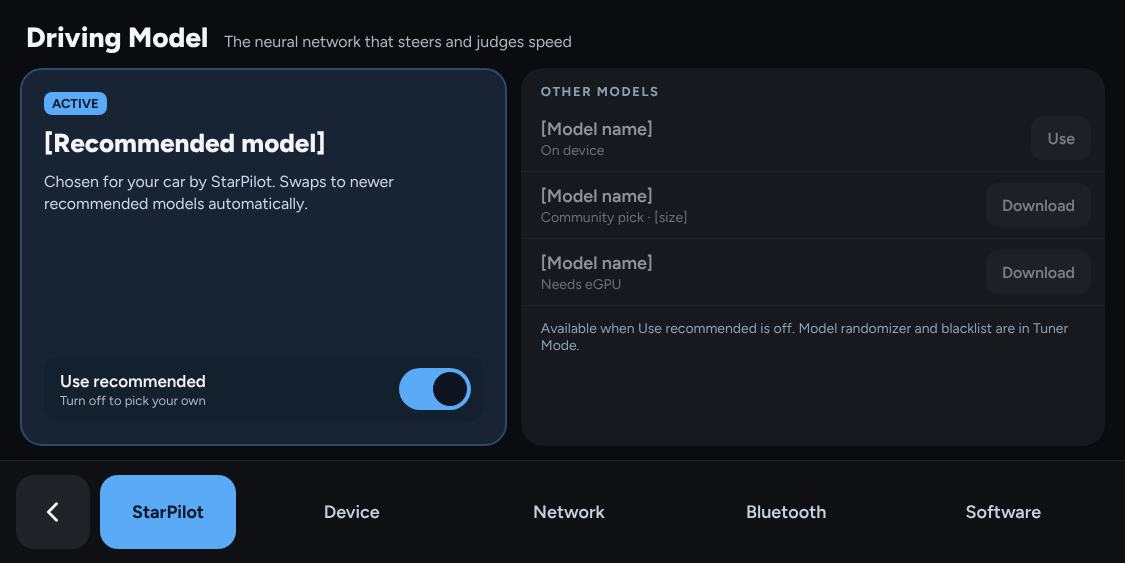
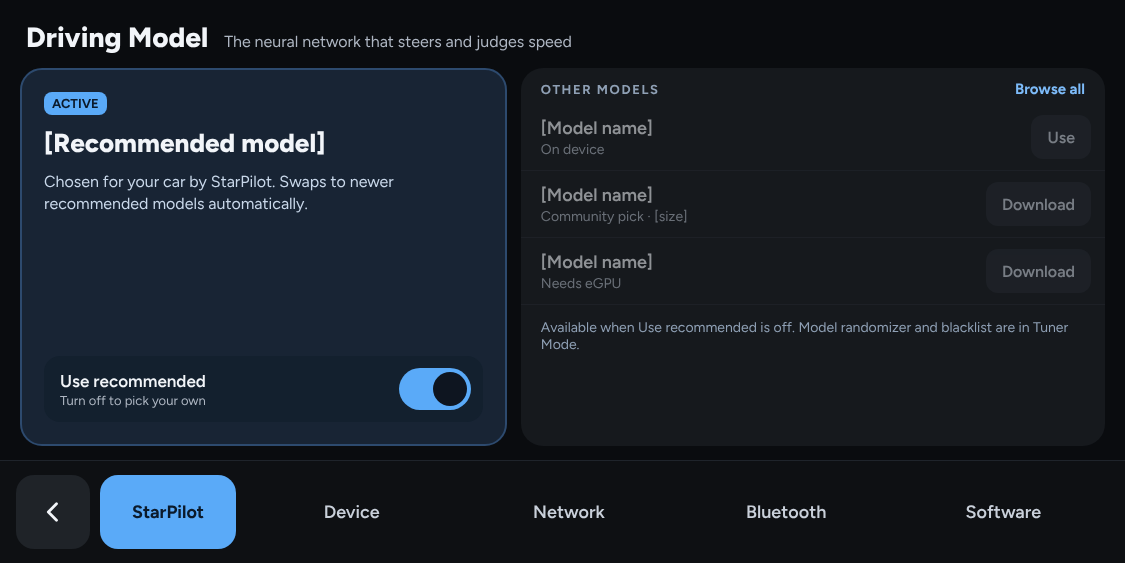
Add value editors, map and model download flows; drop holiday themes
Numeric and volume editor sheets, map region picker and download
progress, and a model catalog with download states. Holiday themes are
removed from the design and HolidayThemes defaults to off.

Claude-Session: https://claude.ai/code/session_01R4pPc2hcx88Dbjjec1p8WC

diff --git a/starpilot/docs/design/essentials/mapdownloading.html b/starpilot/docs/design/essentials/mapdownloading.html
@@ -1,0 +1,59 @@
+<!doctype html>
+<html lang="en">
+<head>
+<meta charset="utf-8">
+<title>Downloading maps</title>
+</head>
+<body>
+
+
+<link rel="preconnect" href="https://fonts.googleapis.com">
+<link href="https://fonts.googleapis.com/css2?family=Figtree:wght@400;500;600;700;800&amp;display=swap" rel="stylesheet">
+<style>
+body{margin:0}
+a{color:#7DBBF9}a:hover{color:#A9D3FB}
+</style>
+
+<div style="width: 1125px; height: 563px; box-sizing: border-box; background: #0A0C0F; color: #F2F5F9; font-family: Figtree, system-ui, sans-serif; display: flex; flex-direction: column; gap: 14px; padding: 16px 18px; overflow: hidden;">
+  <div style="display: flex; align-items: center; gap: 14px;">
+    <a href="mapdata.html" aria-label="Back" style="width: 56px; height: 56px; border-radius: 16px; background: #1F2328; display: flex; align-items: center; justify-content: center; flex-shrink: 0;"><svg width="24" height="24" viewBox="0 0 24 24" fill="none" stroke="#F2F5F9" stroke-width="2.4" stroke-linecap="round" stroke-linejoin="round" aria-hidden="true"><path d="M15 5l-7 7 7 7"></path></svg></a>
+    <div style="flex-grow: 1; display: flex; flex-direction: column; gap: 2px;"><h1 style="margin: 0; font-size: 26px; font-weight: 800;">Downloading West</h1><span style="font-size: 14px; color: #AEB6C2;">You can leave this screen. It keeps going in the background.</span></div>
+    <button type="button" style="font-family: inherit; height: 52px; padding: 0 20px; border-radius: 14px; border: 1px solid #5A3A40; background: transparent; color: #E58C98; font-size: 16px; font-weight: 600;">Cancel download</button>
+  </div>
+  <div style="background: #16191D; border-radius: 22px; padding: 20px 22px; display: flex; flex-direction: column; gap: 14px;">
+    <div style="display: flex; align-items: baseline; gap: 14px;"><span style="font-size: 44px; font-weight: 800; line-height: 1;">42%</span><span style="font-size: 16px; color: #AEB6C2;">[size] of [size] · about [min] left</span></div>
+    <div role="progressbar" aria-valuenow="42" aria-valuemin="0" aria-valuemax="100" aria-label="Overall progress" style="height: 14px; border-radius: 7px; background: #2A2F36;"><div style="width: 42%; height: 14px; border-radius: 7px; background: #5AAAF8;"></div></div>
+    <div style="display: grid; grid-template-columns: repeat(4, minmax(0, 1fr)); gap: 8px;">
+      <span style="display: flex; align-items: center; gap: 8px; font-size: 15px; color: #6FD8A0; font-weight: 600;"><svg width="16" height="16" viewBox="0 0 24 24" fill="none" stroke="#6FD8A0" stroke-width="2.8" stroke-linecap="round" stroke-linejoin="round" aria-hidden="true"><path d="M5 12l5 5 9-10"></path></svg>1 Prepare</span>
+      <span style="display: flex; align-items: center; gap: 8px; font-size: 15px; color: #F2F5F9; font-weight: 700;"><span style="width: 10px; height: 10px; border-radius: 5px; background: #5AAAF8; display: block;"></span>2 Download</span>
+      <span style="display: flex; align-items: center; gap: 8px; font-size: 15px; color: #8FA0B5; font-weight: 600;"><span style="width: 10px; height: 10px; border-radius: 5px; border: 2px solid #4A525E; box-sizing: border-box; display: block;"></span>3 Install</span>
+      <span style="display: flex; align-items: center; gap: 8px; font-size: 15px; color: #8FA0B5; font-weight: 600;"><span style="width: 10px; height: 10px; border-radius: 5px; border: 2px solid #4A525E; box-sizing: border-box; display: block;"></span>4 Ready</span>
+    </div>
+  </div>
+  <div style="flex-grow: 1; background: #16191D; border-radius: 22px; padding: 16px 20px; display: flex; flex-direction: column; gap: 12px; min-height: 0;">
+    <span style="font-size: 13px; font-weight: 700; letter-spacing: 1.6px; color: #8FA0B5;">STATES · 5 OF 13 DONE</span>
+    <div style="display: grid; grid-template-columns: repeat(7, minmax(0, 1fr)); gap: 8px;">
+      <span style="height: 44px; border-radius: 12px; background: #13301F; color: #D2F5E1; font-size: 15px; font-weight: 700; display: flex; align-items: center; justify-content: center; gap: 6px;"><svg width="14" height="14" viewBox="0 0 24 24" fill="none" stroke="#6FD8A0" stroke-width="3" stroke-linecap="round" stroke-linejoin="round" aria-hidden="true"><path d="M5 12l5 5 9-10"></path></svg>AK</span>
+      <span style="height: 44px; border-radius: 12px; background: #13301F; color: #D2F5E1; font-size: 15px; font-weight: 700; display: flex; align-items: center; justify-content: center; gap: 6px;"><svg width="14" height="14" viewBox="0 0 24 24" fill="none" stroke="#6FD8A0" stroke-width="3" stroke-linecap="round" stroke-linejoin="round" aria-hidden="true"><path d="M5 12l5 5 9-10"></path></svg>AZ</span>
+      <span style="height: 44px; border-radius: 12px; background: #13301F; color: #D2F5E1; font-size: 15px; font-weight: 700; display: flex; align-items: center; justify-content: center; gap: 6px;"><svg width="14" height="14" viewBox="0 0 24 24" fill="none" stroke="#6FD8A0" stroke-width="3" stroke-linecap="round" stroke-linejoin="round" aria-hidden="true"><path d="M5 12l5 5 9-10"></path></svg>CA</span>
+      <span style="height: 44px; border-radius: 12px; background: #13301F; color: #D2F5E1; font-size: 15px; font-weight: 700; display: flex; align-items: center; justify-content: center; gap: 6px;"><svg width="14" height="14" viewBox="0 0 24 24" fill="none" stroke="#6FD8A0" stroke-width="3" stroke-linecap="round" stroke-linejoin="round" aria-hidden="true"><path d="M5 12l5 5 9-10"></path></svg>CO</span>
+      <span style="height: 44px; border-radius: 12px; background: #13301F; color: #D2F5E1; font-size: 15px; font-weight: 700; display: flex; align-items: center; justify-content: center; gap: 6px;"><svg width="14" height="14" viewBox="0 0 24 24" fill="none" stroke="#6FD8A0" stroke-width="3" stroke-linecap="round" stroke-linejoin="round" aria-hidden="true"><path d="M5 12l5 5 9-10"></path></svg>HI</span>
+      <span style="height: 44px; border-radius: 12px; background: #182434; box-shadow: inset 0 0 0 2px #5AAAF8; color: #F2F5F9; font-size: 15px; font-weight: 700; display: flex; align-items: center; justify-content: center; gap: 6px;">ID <span style="font-size: 12px; color: #7DBBF9;">60%</span></span>
+      <span style="height: 44px; border-radius: 12px; background: #1E2227; color: #8FA0B5; font-size: 15px; font-weight: 600; display: flex; align-items: center; justify-content: center;">MT</span>
+      <span style="height: 44px; border-radius: 12px; background: #1E2227; color: #8FA0B5; font-size: 15px; font-weight: 600; display: flex; align-items: center; justify-content: center;">NV</span>
+      <span style="height: 44px; border-radius: 12px; background: #1E2227; color: #8FA0B5; font-size: 15px; font-weight: 600; display: flex; align-items: center; justify-content: center;">NM</span>
+      <span style="height: 44px; border-radius: 12px; background: #1E2227; color: #8FA0B5; font-size: 15px; font-weight: 600; display: flex; align-items: center; justify-content: center;">OR</span>
+      <span style="height: 44px; border-radius: 12px; background: #1E2227; color: #8FA0B5; font-size: 15px; font-weight: 600; display: flex; align-items: center; justify-content: center;">UT</span>
+      <span style="height: 44px; border-radius: 12px; background: #1E2227; color: #8FA0B5; font-size: 15px; font-weight: 600; display: flex; align-items: center; justify-content: center;">WA</span>
+      <span style="height: 44px; border-radius: 12px; background: #1E2227; color: #8FA0B5; font-size: 15px; font-weight: 600; display: flex; align-items: center; justify-content: center;">WY</span>
+    </div>
+    <div style="flex-grow: 1;"></div>
+    <div style="display: flex; align-items: center; gap: 10px; font-size: 14px; color: #AEB6C2;">
+      <svg width="18" height="18" viewBox="0 0 24 24" fill="none" stroke="#7DBBF9" stroke-width="2" stroke-linecap="round" aria-hidden="true"><circle cx="12" cy="12" r="9"></circle><path d="M12 11v5M12 8h.01"></path></svg>
+      Pauses if you start driving or lose Wi-Fi, and picks up where it stopped. Keep the device powered.
+    </div>
+  </div>
+</div>
+
+</body>
+</html>

diff --git a/starpilot/docs/design/essentials/mapregions.html b/starpilot/docs/design/essentials/mapregions.html
@@ -1,0 +1,52 @@
+<!doctype html>
+<html lang="en">
+<head>
+<meta charset="utf-8">
+<title>Choose map regions</title>
+</head>
+<body>
+
+
+<link rel="preconnect" href="https://fonts.googleapis.com">
+<link href="https://fonts.googleapis.com/css2?family=Figtree:wght@400;500;600;700;800&amp;display=swap" rel="stylesheet">
+<style>
+body{margin:0}
+a{color:#7DBBF9}a:hover{color:#A9D3FB}
+</style>
+
+<div style="width: 1125px; height: 563px; box-sizing: border-box; background: #0A0C0F; color: #F2F5F9; font-family: Figtree, system-ui, sans-serif; display: flex; flex-direction: column; gap: 14px; padding: 16px 18px; overflow: hidden;">
+  <div style="display: flex; align-items: center; gap: 14px;">
+    <a href="mapdata.html" aria-label="Back" style="width: 56px; height: 56px; border-radius: 16px; background: #1F2328; display: flex; align-items: center; justify-content: center; flex-shrink: 0;"><svg width="24" height="24" viewBox="0 0 24 24" fill="none" stroke="#F2F5F9" stroke-width="2.4" stroke-linecap="round" stroke-linejoin="round" aria-hidden="true"><path d="M15 5l-7 7 7 7"></path></svg></a>
+    <div style="display: flex; flex-direction: column; gap: 2px;"><h1 style="margin: 0; font-size: 26px; font-weight: 800;">Add map regions</h1><span style="font-size: 14px; color: #AEB6C2;">Pick a region, or switch to states for less storage</span></div>
+  </div>
+  <div style="flex-grow: 1; display: flex; gap: 14px; min-height: 0;">
+    <div role="tablist" aria-label="Region type" aria-orientation="vertical" style="width: 190px; flex-shrink: 0; display: flex; flex-direction: column; gap: 6px;">
+      <button type="button" role="tab" aria-selected="true" style="font-family: inherit; text-align: left; height: 54px; border: 0; border-radius: 14px; background: #1F2E45; color: #F2F5F9; font-size: 17px; font-weight: 700; padding: 0 16px;">U.S. regions</button>
+      <button type="button" role="tab" aria-selected="false" style="font-family: inherit; text-align: left; height: 54px; border: 0; border-radius: 14px; background: transparent; color: #C9D0DA; font-size: 17px; font-weight: 600; padding: 0 16px;">U.S. states</button>
+      <button type="button" role="tab" aria-selected="false" style="font-family: inherit; text-align: left; height: 54px; border: 0; border-radius: 14px; background: transparent; color: #C9D0DA; font-size: 17px; font-weight: 600; padding: 0 16px;">Other countries</button>
+    </div>
+    <div style="flex-grow: 1; min-width: 0; display: grid; grid-template-columns: repeat(2, minmax(0, 1fr)); grid-auto-rows: minmax(0, 1fr); gap: 10px;">
+      <button type="button" aria-pressed="true" style="font-family: inherit; text-align: left; border: 2px solid #5AAAF8; border-radius: 16px; background: #182434; color: #F2F5F9; padding: 12px 16px; display: flex; flex-direction: column; justify-content: center; gap: 4px;"><span style="display: flex; align-items: center; gap: 8px; font-size: 17px; font-weight: 700;">West <span style="font-size: 11px; font-weight: 700; color: #0B1A2B; background: #5AAAF8; border-radius: 6px; padding: 2px 6px;">YOUR REGION</span></span><span style="font-size: 13px; color: #C9D8EA;">13 states · [size]</span></button>
+      <button type="button" aria-pressed="false" style="font-family: inherit; text-align: left; border: 2px solid transparent; border-radius: 16px; background: #1A1D22; color: #F2F5F9; padding: 12px 16px; display: flex; flex-direction: column; justify-content: center; gap: 4px;"><span style="font-size: 17px; font-weight: 700;">Midwest</span><span style="font-size: 13px; color: #AEB6C2;">12 states · [size]</span></button>
+      <button type="button" aria-pressed="false" style="font-family: inherit; text-align: left; border: 2px solid transparent; border-radius: 16px; background: #1A1D22; color: #F2F5F9; padding: 12px 16px; display: flex; flex-direction: column; justify-content: center; gap: 4px;"><span style="font-size: 17px; font-weight: 700;">South</span><span style="font-size: 13px; color: #AEB6C2;">17 states · [size]</span></button>
+      <button type="button" aria-pressed="false" style="font-family: inherit; text-align: left; border: 2px solid transparent; border-radius: 16px; background: #1A1D22; color: #F2F5F9; padding: 12px 16px; display: flex; flex-direction: column; justify-content: center; gap: 4px;"><span style="font-size: 17px; font-weight: 700;">Northeast</span><span style="font-size: 13px; color: #AEB6C2;">9 states · [size]</span></button>
+      <button type="button" aria-pressed="false" style="font-family: inherit; text-align: left; border: 2px solid transparent; border-radius: 16px; background: #1A1D22; color: #F2F5F9; padding: 12px 16px; display: flex; flex-direction: column; justify-content: center; gap: 4px;"><span style="font-size: 17px; font-weight: 700;">Territories</span><span style="font-size: 13px; color: #AEB6C2;">5 territories · [size]</span></button>
+      <button type="button" aria-pressed="false" style="font-family: inherit; text-align: left; border: 2px solid transparent; border-radius: 16px; background: #1A1D22; color: #F2F5F9; padding: 12px 16px; display: flex; flex-direction: column; justify-content: center; gap: 4px;"><span style="font-size: 17px; font-weight: 700;">Whole U.S.</span><span style="font-size: 13px; color: #AEB6C2;">Every state and territory · [size]</span></button>
+    </div>
+    <div style="width: 290px; flex-shrink: 0; background: #16191D; border-radius: 20px; padding: 18px; box-sizing: border-box; display: flex; flex-direction: column; gap: 12px;">
+      <span style="font-size: 13px; font-weight: 700; letter-spacing: 1.6px; color: #8FA0B5;">SELECTED</span>
+      <span style="font-size: 22px; font-weight: 800;">West · 13 states</span>
+      <span style="font-size: 15px; color: #AEB6C2;">[size] download · [free] left after</span>
+      <div style="display: flex; flex-direction: column; gap: 8px; padding-top: 4px; font-size: 15px;">
+        <span style="display: flex; align-items: center; gap: 10px;"><svg width="18" height="18" viewBox="0 0 24 24" fill="none" stroke="#6FD8A0" stroke-width="2.6" stroke-linecap="round" stroke-linejoin="round" aria-hidden="true"><path d="M5 12l5 5 9-10"></path></svg>Parked</span>
+        <span style="display: flex; align-items: center; gap: 10px;"><svg width="18" height="18" viewBox="0 0 24 24" fill="none" stroke="#6FD8A0" stroke-width="2.6" stroke-linecap="round" stroke-linejoin="round" aria-hidden="true"><path d="M5 12l5 5 9-10"></path></svg>On Wi-Fi</span>
+        <span style="display: flex; align-items: center; gap: 10px;"><svg width="18" height="18" viewBox="0 0 24 24" fill="none" stroke="#6FD8A0" stroke-width="2.6" stroke-linecap="round" stroke-linejoin="round" aria-hidden="true"><path d="M5 12l5 5 9-10"></path></svg>Enough storage</span>
+      </div>
+      <div style="flex-grow: 1;"></div>
+      <a href="mapdownloading.html" style="text-decoration: none; height: 60px; border-radius: 16px; background: #5AAAF8; color: #0B1A2B; font-size: 18px; font-weight: 800; display: flex; align-items: center; justify-content: center;">Download</a>
+    </div>
+  </div>
+</div>
+
+</body>
+</html>

diff --git a/starpilot/docs/design/essentials/modelcatalog.html b/starpilot/docs/design/essentials/modelcatalog.html
@@ -1,0 +1,70 @@
+<!doctype html>
+<html lang="en">
+<head>
+<meta charset="utf-8">
+<title>Browse driving models</title>
+</head>
+<body>
+
+
+<link rel="preconnect" href="https://fonts.googleapis.com">
+<link href="https://fonts.googleapis.com/css2?family=Figtree:wght@400;500;600;700;800&amp;display=swap" rel="stylesheet">
+<style>
+body{margin:0}
+a{color:#7DBBF9}a:hover{color:#A9D3FB}
+</style>
+
+<div style="width: 1125px; height: 563px; box-sizing: border-box; background: #0A0C0F; color: #F2F5F9; font-family: Figtree, system-ui, sans-serif; display: flex; flex-direction: column; gap: 12px; padding: 16px 18px; overflow: hidden;">
+  <div style="display: flex; align-items: center; gap: 14px;">
+    <a href="model.html" aria-label="Back" style="width: 56px; height: 56px; border-radius: 16px; background: #1F2328; display: flex; align-items: center; justify-content: center; flex-shrink: 0;"><svg width="24" height="24" viewBox="0 0 24 24" fill="none" stroke="#F2F5F9" stroke-width="2.4" stroke-linecap="round" stroke-linejoin="round" aria-hidden="true"><path d="M15 5l-7 7 7 7"></path></svg></a>
+    <h1 style="margin: 0; flex-grow: 1; font-size: 26px; font-weight: 800;">Driving models</h1>
+    <div role="tablist" aria-label="Model list" style="display: flex; background: #1A1D22; border-radius: 14px; padding: 4px;">
+      <button type="button" role="tab" aria-selected="true" style="font-family: inherit; border: 0; background: #5AAAF8; color: #0B1A2B; height: 44px; padding: 0 16px; border-radius: 11px; font-size: 16px; font-weight: 700;">For your car</button>
+      <button type="button" role="tab" aria-selected="false" style="font-family: inherit; border: 0; background: transparent; color: #C9D0DA; height: 44px; padding: 0 16px; border-radius: 11px; font-size: 16px; font-weight: 600;">Community picks</button>
+      <button type="button" role="tab" aria-selected="false" style="font-family: inherit; border: 0; background: transparent; color: #C9D0DA; height: 44px; padding: 0 16px; border-radius: 11px; font-size: 16px; font-weight: 600;">On device</button>
+    </div>
+  </div>
+  <div style="flex-grow: 1; display: flex; gap: 14px; min-height: 0;">
+    <div style="flex-grow: 1; min-width: 0; background: #16191D; border-radius: 22px; display: flex; flex-direction: column; overflow: hidden;">
+      <div style="display: flex; align-items: center; gap: 14px; padding: 0 16px 0 20px; height: 72px; border-bottom: 1px solid #23272E; background: #182434;">
+        <div style="flex-grow: 1; display: flex; flex-direction: column; gap: 3px;"><span style="font-size: 18px; font-weight: 700;">[Recommended model]</span><span style="font-size: 14px; color: #C9D8EA;">Recommended · On device</span></div>
+        <span style="font-size: 13px; font-weight: 700; color: #0B1A2B; background: #5AAAF8; border-radius: 8px; padding: 5px 10px;">ACTIVE</span>
+      </div>
+      <div style="display: flex; flex-direction: column; justify-content: center; gap: 8px; padding: 0 16px 0 20px; height: 82px; border-bottom: 1px solid #23272E;">
+        <div style="display: flex; align-items: center; gap: 14px;">
+          <div style="flex-grow: 1; display: flex; flex-direction: column; gap: 3px;"><span style="font-size: 18px; font-weight: 700;">[Model name]</span><span style="font-size: 14px; color: #7DBBF9;">Downloading · 45% · about [min] left</span></div>
+          <button type="button" style="font-family: inherit; height: 42px; padding: 0 16px; border: 0; border-radius: 12px; background: #23272E; color: #F2F5F9; font-size: 15px; font-weight: 600;">Cancel</button>
+        </div>
+        <div role="progressbar" aria-valuenow="45" aria-valuemin="0" aria-valuemax="100" aria-label="Download progress" style="height: 6px; border-radius: 3px; background: #2A2F36;"><div style="width: 45%; height: 6px; border-radius: 3px; background: #5AAAF8;"></div></div>
+      </div>
+      <div style="display: flex; align-items: center; gap: 14px; padding: 0 16px 0 20px; height: 68px; border-bottom: 1px solid #23272E;">
+        <div style="flex-grow: 1; display: flex; flex-direction: column; gap: 3px;"><span style="font-size: 18px; font-weight: 600;">[Model name]</span><span style="font-size: 14px; color: #6FD8A0;">On device</span></div>
+        <button type="button" style="font-family: inherit; height: 42px; padding: 0 18px; border: 0; border-radius: 12px; background: #5AAAF8; color: #0B1A2B; font-size: 15px; font-weight: 700;">Use</button>
+      </div>
+      <div style="display: flex; align-items: center; gap: 14px; padding: 0 16px 0 20px; height: 68px; border-bottom: 1px solid #23272E;">
+        <div style="flex-grow: 1; display: flex; flex-direction: column; gap: 3px;"><span style="font-size: 18px; font-weight: 600;">[Model name]</span><span style="font-size: 14px; color: #AEB6C2;">[size] · supports your car</span></div>
+        <button type="button" style="font-family: inherit; height: 42px; padding: 0 16px; border: 0; border-radius: 12px; background: #23272E; color: #F2F5F9; font-size: 15px; font-weight: 600;">Download</button>
+      </div>
+      <div style="display: flex; align-items: center; gap: 14px; padding: 0 16px 0 20px; height: 68px; opacity: 0.55;">
+        <div style="flex-grow: 1; display: flex; flex-direction: column; gap: 3px;"><span style="font-size: 18px; font-weight: 600;">[Model name]</span><span style="font-size: 14px; color: #AEB6C2;">Needs an eGPU</span></div>
+        <button type="button" disabled="disabled" style="font-family: inherit; height: 42px; padding: 0 16px; border: 0; border-radius: 12px; background: #23272E; color: #8FA0B5; font-size: 15px; font-weight: 600;">Not available</button>
+      </div>
+    </div>
+    <div style="width: 280px; flex-shrink: 0; display: flex; flex-direction: column; gap: 14px;">
+      <div style="background: #16191D; border-radius: 20px; padding: 16px 18px; display: flex; flex-direction: column; gap: 10px;">
+        <span style="font-size: 13px; font-weight: 700; letter-spacing: 1.6px; color: #8FA0B5;">STORAGE</span>
+        <span style="font-size: 18px; font-weight: 700;">[free] free</span>
+        <div style="height: 10px; border-radius: 5px; background: #2A2F36;"><div style="width: 62%; height: 10px; border-radius: 5px; background: #3B5677;"></div></div>
+        <button type="button" style="font-family: inherit; height: 46px; border: 0; border-radius: 12px; background: #23272E; color: #F2F5F9; font-size: 15px; font-weight: 600;">Remove unused models</button>
+      </div>
+      <div style="flex-grow: 1; background: #16191D; border-radius: 20px; padding: 16px 18px; display: flex; flex-direction: column; gap: 10px; font-size: 14px; color: #C9D0DA; line-height: 1.45;">
+        <span style="font-size: 13px; font-weight: 700; letter-spacing: 1.6px; color: #8FA0B5;">GOOD TO KNOW</span>
+        <span>One download at a time. Downloads pause while driving and resume when parked.</span>
+        <span>A new model takes effect the next time you start the car.</span>
+      </div>
+    </div>
+  </div>
+</div>
+
+</body>
+</html>

diff --git a/starpilot/docs/design/essentials/valueeditor.html b/starpilot/docs/design/essentials/valueeditor.html
@@ -1,0 +1,54 @@
+<!doctype html>
+<html lang="en">
+<head>
+<meta charset="utf-8">
+<title>Numeric value editor</title>
+</head>
+<body>
+
+
+<link rel="preconnect" href="https://fonts.googleapis.com">
+<link href="https://fonts.googleapis.com/css2?family=Figtree:wght@400;500;600;700;800&amp;display=swap" rel="stylesheet">
+<style>
+body{margin:0}
+a{color:#7DBBF9}a:hover{color:#A9D3FB}
+</style>
+
+<div style="width: 1125px; height: 563px; box-sizing: border-box; background: #050608; color: #F2F5F9; font-family: Figtree, system-ui, sans-serif; display: flex; flex-direction: column; justify-content: flex-end; overflow: hidden; position: relative;">
+  <div aria-hidden="true" style="position: absolute; left: 20px; right: 20px; top: 18px; height: 70px; border-radius: 22px; background: #0C0E11;"></div>
+  <section aria-label="Speed Limit Offset" style="position: relative; height: 455px; box-sizing: border-box; background: #16191D; border-radius: 26px 26px 0 0; border-top: 1px solid #262B33; padding: 14px 26px 22px; display: flex; flex-direction: column; gap: 14px;">
+    <div style="align-self: center; width: 64px; height: 6px; border-radius: 3px; background: #3A414C;"></div>
+    <div style="display: flex; align-items: center; gap: 14px;">
+      <div style="flex-grow: 1; display: flex; flex-direction: column; gap: 4px;"><h2 style="margin: 0; font-size: 28px; font-weight: 800;">Speed Limit Offset</h2><span style="font-size: 15px; color: #AEB6C2;">Added to every matched speed limit</span></div>
+      <a href="driving.html" style="text-decoration: none; height: 60px; padding: 0 30px; border-radius: 16px; background: #5AAAF8; color: #0B1A2B; font-size: 18px; font-weight: 800; display: flex; align-items: center;">Done</a>
+    </div>
+    <div style="display: flex; align-items: center; justify-content: center; gap: 40px; padding-top: 4px;">
+      <button type="button" aria-label="Decrease" style="font-family: inherit; width: 88px; height: 88px; border: 0; border-radius: 24px; background: #23272E; color: #F2F5F9; font-size: 44px; font-weight: 500;">−</button>
+      <div style="width: 260px; display: flex; flex-direction: column; align-items: center; line-height: 1;">
+        <span style="font-size: 76px; font-weight: 800;">+3</span>
+        <span style="font-size: 18px; color: #AEB6C2; margin-top: 6px;">mph</span>
+      </div>
+      <button type="button" aria-label="Increase" style="font-family: inherit; width: 88px; height: 88px; border: 0; border-radius: 24px; background: #23272E; color: #F2F5F9; font-size: 44px; font-weight: 500;">+</button>
+    </div>
+    <div style="position: relative; height: 66px; margin: 0 12px;">
+      <span style="position: absolute; left: 52%; top: 0; transform: translateX(-50%); font-size: 12px; font-weight: 700; letter-spacing: 1.2px; color: #8FA0B5;">DEFAULT</span>
+      <div aria-hidden="true" style="position: absolute; left: 0; right: 0; top: 30px; height: 10px; border-radius: 5px; background: #2A2F36;"></div>
+      <div aria-hidden="true" style="position: absolute; left: 0; width: 52%; top: 30px; height: 10px; border-radius: 5px; background: #5AAAF8;"></div>
+      <div aria-hidden="true" style="position: absolute; left: 52%; top: 21px; width: 28px; height: 28px; margin-left: -14px; border-radius: 14px; background: #F2F5F9; border: 4px solid #5AAAF8; box-sizing: border-box;"></div>
+      <span style="position: absolute; left: 0; top: 48px; font-size: 13px; color: #8FA0B5;">−10</span>
+      <span style="position: absolute; right: 0; top: 48px; font-size: 13px; color: #8FA0B5;">+15</span>
+    </div>
+    <div style="display: flex; align-items: center; gap: 10px;">
+      <span style="font-size: 14px; color: #AEB6C2; margin-right: 6px;">Quick picks</span>
+      <button type="button" style="font-family: inherit; height: 44px; padding: 0 18px; border: 0; border-radius: 12px; background: #23272E; color: #F2F5F9; font-size: 16px; font-weight: 600;">+0</button>
+      <button type="button" aria-pressed="true" style="font-family: inherit; height: 44px; padding: 0 18px; border: 0; border-radius: 12px; background: #5AAAF8; color: #0B1A2B; font-size: 16px; font-weight: 700;">+3</button>
+      <button type="button" style="font-family: inherit; height: 44px; padding: 0 18px; border: 0; border-radius: 12px; background: #23272E; color: #F2F5F9; font-size: 16px; font-weight: 600;">+5</button>
+      <button type="button" style="font-family: inherit; height: 44px; padding: 0 18px; border: 0; border-radius: 12px; background: #23272E; color: #F2F5F9; font-size: 16px; font-weight: 600;">+10</button>
+      <span style="flex-grow: 1; text-align: right; font-size: 14px; color: #8FA0B5;">Steps of 1. Hold − or + to move faster.</span>
+      <button type="button" style="font-family: inherit; height: 44px; padding: 0 16px; border: 0; border-radius: 12px; background: transparent; color: #7DBBF9; font-size: 16px; font-weight: 700;">Reset to default</button>
+    </div>
+  </section>
+</div>
+
+</body>
+</html>

diff --git a/starpilot/docs/design/essentials/volumeeditor.html b/starpilot/docs/design/essentials/volumeeditor.html
@@ -1,0 +1,48 @@
+<!doctype html>
+<html lang="en">
+<head>
+<meta charset="utf-8">
+<title>Volume editor</title>
+</head>
+<body>
+
+
+<link rel="preconnect" href="https://fonts.googleapis.com">
+<link href="https://fonts.googleapis.com/css2?family=Figtree:wght@400;500;600;700;800&amp;display=swap" rel="stylesheet">
+<style>
+body{margin:0}
+a{color:#7DBBF9}a:hover{color:#A9D3FB}
+</style>
+
+<div style="width: 1125px; height: 563px; box-sizing: border-box; background: #050608; color: #F2F5F9; font-family: Figtree, system-ui, sans-serif; display: flex; flex-direction: column; justify-content: flex-end; overflow: hidden; position: relative;">
+  <div aria-hidden="true" style="position: absolute; left: 20px; right: 20px; top: 18px; height: 70px; border-radius: 22px; background: #0C0E11;"></div>
+  <section aria-label="Warning volume" style="position: relative; height: 455px; box-sizing: border-box; background: #16191D; border-radius: 26px 26px 0 0; border-top: 1px solid #262B33; padding: 14px 26px 22px; display: flex; flex-direction: column; gap: 16px;">
+    <div style="align-self: center; width: 64px; height: 6px; border-radius: 3px; background: #3A414C;"></div>
+    <div style="display: flex; align-items: center; gap: 14px;">
+      <div style="flex-grow: 1; display: flex; flex-direction: column; gap: 4px;"><h2 style="margin: 0; font-size: 28px; font-weight: 800;">Driver Attention Volume</h2><span style="font-size: 15px; color: #AEB6C2;">The chime when StarPilot needs you to look at the road</span></div>
+      <a href="alerts.html" style="text-decoration: none; height: 60px; padding: 0 30px; border-radius: 16px; background: #5AAAF8; color: #0B1A2B; font-size: 18px; font-weight: 800; display: flex; align-items: center;">Done</a>
+    </div>
+    <div style="display: flex; align-items: center; gap: 28px; padding: 6px 0;">
+      <div style="display: flex; align-items: baseline; gap: 6px; width: 200px;"><span style="font-size: 72px; font-weight: 800; line-height: 1;">80</span><span style="font-size: 26px; font-weight: 700; color: #AEB6C2;">%</span></div>
+      <button type="button" style="font-family: inherit; height: 64px; padding: 0 22px; border: 0; border-radius: 18px; background: #23272E; color: #F2F5F9; font-size: 17px; font-weight: 700; display: flex; align-items: center; gap: 12px;"><svg width="22" height="22" viewBox="0 0 24 24" fill="#7DBBF9" aria-hidden="true"><path d="M8 5l11 7-11 7z"></path></svg>Play sample</button>
+      <span style="flex-grow: 1; font-size: 15px; color: #AEB6C2;">Plays through your car speakers if they're connected.</span>
+    </div>
+    <div style="position: relative; height: 92px; margin: 0 14px;">
+      <div aria-hidden="true" style="position: absolute; left: 0; width: 25%; top: 30px; height: 14px; border-radius: 7px 0 0 7px; background: repeating-linear-gradient(135deg, #3A2026 0 6px, #2A1A1E 6px 12px);"></div>
+      <div aria-hidden="true" style="position: absolute; left: 25%; right: 0; top: 30px; height: 14px; border-radius: 0 7px 7px 0; background: #2A2F36;"></div>
+      <div aria-hidden="true" style="position: absolute; left: 25%; width: 55%; top: 30px; height: 14px; background: #5AAAF8;"></div>
+      <div aria-hidden="true" style="position: absolute; left: 80%; top: 21px; width: 32px; height: 32px; margin-left: -16px; border-radius: 16px; background: #F2F5F9; border: 4px solid #5AAAF8; box-sizing: border-box;"></div>
+      <span style="position: absolute; left: 0; top: 0; font-size: 13px; font-weight: 600; color: #F2A7B1;">Minimum 25% for safety alerts</span>
+      <span style="position: absolute; left: 40%; top: 54px; transform: translateX(-50%); font-size: 13px; color: #8FA0B5; text-align: center;">│<br>Quiet</span>
+      <span style="position: absolute; left: 70%; top: 54px; transform: translateX(-50%); font-size: 13px; color: #8FA0B5; text-align: center;">│<br>Normal</span>
+      <span style="position: absolute; left: 100%; top: 54px; transform: translateX(-100%); font-size: 13px; color: #8FA0B5; text-align: right;">│<br>Loud</span>
+    </div>
+    <div style="display: flex; align-items: center; gap: 10px;">
+      <span style="flex-grow: 1; font-size: 14px; color: #8FA0B5;">Custom levels set the Alert Volume preset to Custom.</span>
+      <button type="button" style="font-family: inherit; height: 44px; padding: 0 16px; border: 0; border-radius: 12px; background: transparent; color: #7DBBF9; font-size: 16px; font-weight: 700;">Reset to Normal</button>
+    </div>
+  </section>
+</div>
+
+</body>
+</html>

diff --git a/starpilot/docs/design/essentials/model.html b/starpilot/docs/design/essentials/model.html
@@ -32,7 +32,7 @@ a{color:#7DBBF9}a:hover{color:#A9D3FB}
         </div>
       </div>
       <div style="background: #16191D; border-radius: 22px; display: flex; flex-direction: column; overflow: hidden;">
-        <span style="font-size: 13px; font-weight: 700; letter-spacing: 1.6px; color: #8FA0B5; padding: 16px 20px 6px;">OTHER MODELS</span>
+        <div style="display: flex; align-items: center; justify-content: space-between; padding: 12px 20px 6px;"><span style="font-size: 13px; font-weight: 700; letter-spacing: 1.6px; color: #8FA0B5;">OTHER MODELS</span><a href="modelcatalog.html" style="font-size: 15px; font-weight: 700; text-decoration: none;">Browse all</a></div>
         <div style="display: flex; align-items: center; gap: 14px; padding: 0 14px 0 20px; height: 66px; border-bottom: 1px solid #23272E; opacity: 0.55;">
           <div style="flex-grow: 1; display: flex; flex-direction: column; gap: 2px;"><span style="font-size: 18px; font-weight: 600;">[Model name]</span><span style="font-size: 14px; color: #AEB6C2;">On device</span></div>
           <button type="button" disabled="disabled" style="font-family: inherit; height: 44px; padding: 0 16px; border: 0; border-radius: 12px; background: #23272E; color: #C9D0DA; font-size: 16px; font-weight: 600;">Use</button>

diff --git a/starpilot/docs/design/essentials/defaults.html b/starpilot/docs/design/essentials/defaults.html
@@ -77,7 +77,7 @@ a{color:#7DBBF9}a:hover{color:#A9D3FB}
         <span style="font-size: 20px; font-weight: 700;">Fixed, no longer shown</span>
         <span style="font-size: 15px; color: #AEB6C2;">Set once to a sensible value. Reachable only through Tuner Mode.</span>
         <div style="display: flex; flex-direction: column; gap: 9px; font-size: 15px; margin-top: 4px;">
-          <div style="display: flex; justify-content: space-between; gap: 12px;"><span>Holiday themes</span><b>On</b></div>
+          <div style="display: flex; justify-content: space-between; gap: 12px;"><span>Holiday themes (<code style="font-family: 'JetBrains Mono', monospace; font-size: 13px;">HolidayThemes</code>)</span><b>Off</b></div>
           <div style="display: flex; justify-content: space-between; gap: 12px;"><span>Rotating wheel</span><b>On</b></div>
           <div style="display: flex; justify-content: space-between; gap: 12px;"><span>Stopped timer</span><b>On</b></div>
           <div style="display: flex; justify-content: space-between; gap: 12px;"><span>Compass</span><b>Off</b></div>

diff --git a/starpilot/docs/design/essentials/mapdata.html b/starpilot/docs/design/essentials/mapdata.html
@@ -35,7 +35,7 @@ a{color:#7DBBF9}a:hover{color:#A9D3FB}
           Downloaded · Last updated [date]
         </div>
         <div style="flex-grow: 1;"></div>
-        <a href="#" style="text-decoration: none; height: 58px; border-radius: 14px; background: #1E2227; color: #F2F5F9; font-size: 17px; font-weight: 600; display: flex; align-items: center; justify-content: space-between; padding: 0 16px 0 18px;">
+        <a href="mapregions.html" style="text-decoration: none; height: 58px; border-radius: 14px; background: #1E2227; color: #F2F5F9; font-size: 17px; font-weight: 600; display: flex; align-items: center; justify-content: space-between; padding: 0 16px 0 18px;">
           Add another region
           <svg width="16" height="16" viewBox="0 0 24 24" fill="none" stroke="#F2F5F9" stroke-width="2.6" stroke-linecap="round" stroke-linejoin="round" aria-hidden="true"><path d="M9 5l7 7-7 7"></path></svg>
         </a>

diff --git a/starpilot/docs/design/essentials/displaytheme.html b/starpilot/docs/design/essentials/displaytheme.html
@@ -45,7 +45,6 @@ a{color:#7DBBF9}a:hover{color:#A9D3FB}
         <button type="button" style="font-family: inherit; display: flex; align-items: center; gap: 10px; height: 44px; padding: 0 14px 0 18px; border: 0; border-radius: 12px; background: #23272E; color: #F2F5F9; font-size: 17px; font-weight: 700;">Default <svg width="16" height="16" viewBox="0 0 24 24" fill="none" stroke="#F2F5F9" stroke-width="2.6" stroke-linecap="round" stroke-linejoin="round" aria-hidden="true"><path d="M9 5l7 7-7 7"></path></svg></button>
       </div>
       <div style="flex-grow: 1;"></div>
-      <span style="font-size: 14px; color: #8FA0B5; padding: 12px 22px;">Holiday themes turn on by themselves during holidays.</span>
     </div>
   </div>
   <nav style="height: 102px; flex-shrink: 0; border-top: 1px solid #1F242B; background: #0E1013; display: flex; align-items: center; gap: 10px; padding: 0 16px;">

diff --git a/starpilot/docs/design/essentials/README.md b/starpilot/docs/design/essentials/README.md
@@ -51,6 +51,11 @@ Open any `.html` file in this folder in a browser. Each screen is 1125×563, the
 | Tuner › Following & Stops | [tunerfollowing.html](tunerfollowing.html) |
 | Tuner › Bundle Overrides | [tunerbundles.html](tunerbundles.html) |
 | Vehicle › Choose your car | [vehiclepicker.html](vehiclepicker.html) |
+| Numeric value editor | [valueeditor.html](valueeditor.html) |
+| Volume editor | [volumeeditor.html](volumeeditor.html) |
+| Offline maps › Choose regions | [mapregions.html](mapregions.html) |
+| Offline maps › Downloading | [mapdownloading.html](mapdownloading.html) |
+| Driving Model › Browse and download | [modelcatalog.html](modelcatalog.html) |
 
 ## Principles
 
@@ -97,7 +102,7 @@ The four chime switches stay as they are: Green Light (**on**), Lead Departure (
 
 ## Fixed values, no longer shown
 
-Holiday themes **on**, rotating wheel **on**, stopped timer **on**, compass off, wheel speed off, reverse cruise increase off, pulse and glide off, map gears off, force stops and force standstill off, model randomizer off. The onroad personality button (`OnroadDistanceButton`) is removed.
+Holiday themes off (`HolidayThemes`; this redesign drops them), rotating wheel **on**, stopped timer **on**, compass off, wheel speed off, reverse cruise increase off, pulse and glide off, map gears off, force stops and force standstill off, model randomizer off. The onroad personality button (`OnroadDistanceButton`) is removed.
 
 ## Navigation changes
 
@@ -189,7 +194,6 @@ Every sidebar item in the StarPilot settings has its own screen. Sidebar items l
 - **Display › Theme & Startup:**
   - Camera View: Auto / Standard / Wide (`CameraView`; default Standard). The Driver view option moves to Developer View.
   - Driver Camera in Reverse (`DriverCamera`), Boot Logo (`BootLogo`) and Startup Message (`StartupAlert`).
-  - Holiday themes are automatic.
 - **Display › Map:**
   - Turn-by-Turn on Screen (`NavigationUI`).
   - Speed limit sign style: Auto / US / Vienna (`UseVienna`; Auto follows your region).
@@ -208,6 +212,30 @@ Every sidebar item in the StarPilot settings has its own screen. Sidebar items l
 - **Vehicle › Choose your car:** Make and Model lists, with the detected model marked. Saving turns off automatic detection (`ForceFingerprint`).
 
 Values in square brackets are placeholders, not proposed defaults.
+
+## Value editors and download flows
+
+- **Numeric value editor.** One bottom sheet for every number setting. The example is Speed Limit Offset.
+  - A large value with big − and + buttons. Holding a button speeds it up.
+  - A slider with the default marked and the range shown at each end.
+  - Quick-pick chips and Reset to default.
+  - This builds on the existing `AetherSliderDialog`, which already has min, max, step, unit and labels.
+- **Volume editor.** The same sheet plus Play sample, which uses the car speakers when they're connected.
+  - The slider marks the Quiet, Normal and Loud presets.
+  - For safety alerts, the area under 25% is hatched and can't be selected.
+  - Changing a single level switches the Alert Volume preset to Custom.
+- **Choosing map regions.** Tabs for U.S. regions, U.S. states and other countries.
+  - Region cards show state count and size, and your region is tagged.
+  - A summary column shows download size and storage left afterwards, a readiness checklist (parked, on Wi-Fi, enough storage) and Download. Download stays disabled, with the reason shown, until every check passes.
+- **Map download progress.**
+  - Overall percent, size and time left.
+  - Four steps: Prepare, Download, Install, Ready.
+  - A grid of states showing which are done, which is in progress and which are queued.
+  - It pauses when driving or off Wi-Fi and resumes on its own. You can leave the screen. Cancel sits at the top right.
+- **Model catalog.** Tabs for For your car, Community picks and On device.
+  - Each row shows one state: Active, Downloading (with progress and Cancel), On device (Use), Download (with size), or Not available (e.g. needs an eGPU).
+  - A side column shows storage, with Remove unused models.
+  - Only one download runs at a time. A new model takes effect at the next drive.
 
 ## Navigation
 
